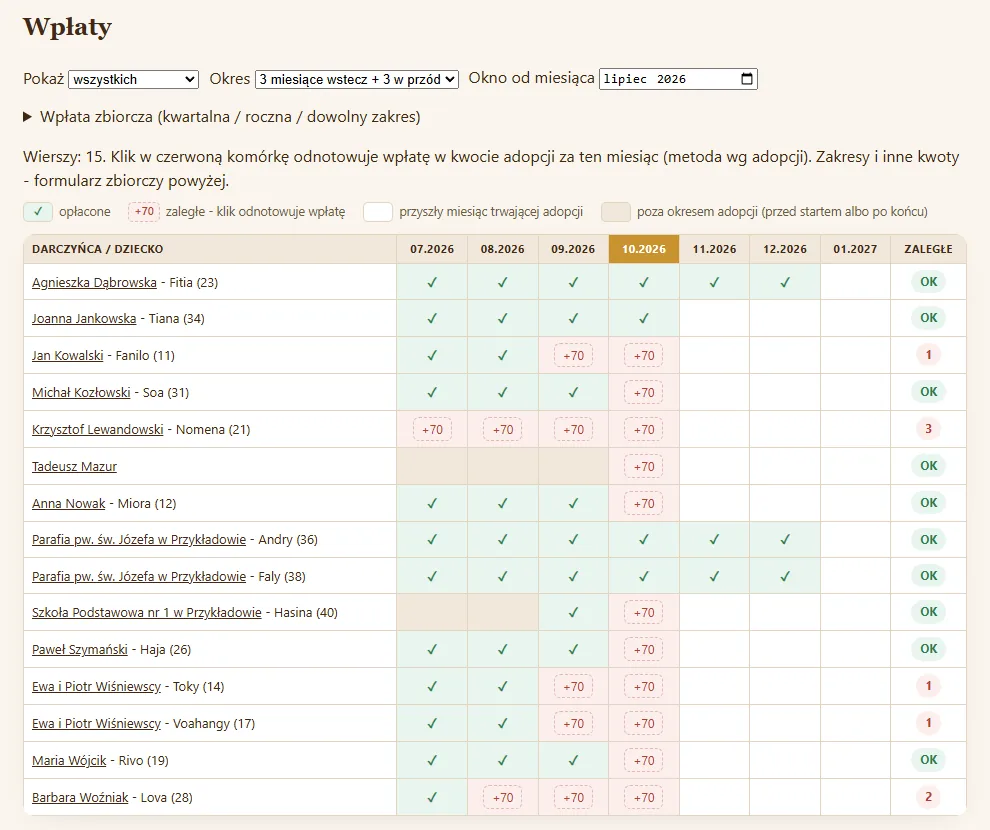
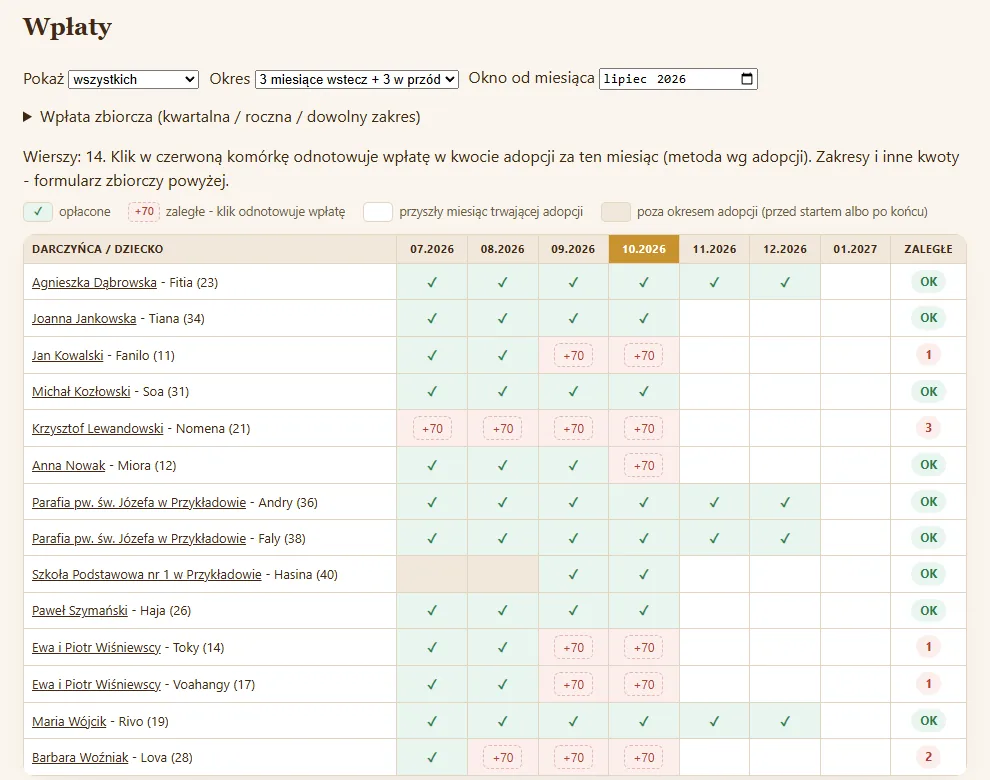
tresc: wpis MADA - geneza od wizytowki, zrzuty zgodne z tekstem
Punkt wyjscia wg Tomasza (tylko fanpage, potem kolejne moduly - kolejnosc
z historii commitow). Macierz, podzial przelewu i dubel zrobione od nowa
na poprawionych fikcyjnych danych, podpisy dopasowane do zrzutow.

diff --git a/content/wpisy/2026-10-03-strona-fundacji-misja-mada.md b/content/wpisy/2026-10-03-strona-fundacji-misja-mada.md
@@ -12,13 +12,21 @@ typ: wpis
 ---
 Fundacja Misja MADA pomaga dzieciom i rodzinom na Madagaskarze. Wspiera Siostry Małe Misjonarki Miłosierdzia (Siostry Orionistki), które prowadzą tam między innymi Centrum Edukacyjne i Atelier Nadziei. Najważniejszy program fundacji to Adopcja Serca: darczyńca z Polski co miesiąc wspiera konkretne dziecko.
 
-W czerwcu 2026 zacząłem robić dla fundacji nowy serwis, [misjamada.pl](https://misjamada.pl), razem z panelem, w którym prowadzi się dziś cały ten program. Koncepcję, zakres funkcji i projekt graficzny ustaliliśmy wspólnie z fundacją. Kod, wdrożenie i bieżące utrzymanie są po mojej stronie. Ten tekst opisuje, jak to wygląda od środka - dla kogoś, kto chce zobaczyć, jak pracuję.
+W czerwcu 2026 zrobiłem dla fundacji pierwszą stronę internetową, [misjamada.pl](https://misjamada.pl). Zaczęła się jako wizytówka, a z czasem urosła w system, w którym fundacja prowadzi dziś cały ten program. Koncepcję, zakres funkcji i projekt graficzny ustalaliśmy wspólnie z fundacją. Kod, wdrożenie i bieżące utrzymanie są po mojej stronie. Ten tekst opisuje, jak to wygląda od środka - dla kogoś, kto chce zobaczyć, jak pracuję.
 
-## Punkt wyjścia
+## Punkt wyjścia: fanpage i arkusze
 
-Adopcja Serca żyła w arkuszach Google. W jednym lista darczyńców, w drugim wpłaty, po kolumnie na każdy miesiąc. Każdy przelew z wyciągu ktoś przepisywał ręcznie: kto zapłacił, za które dziecko, za jaki okres. Arkusz jest świetny na początek, ale z każdym nowym darczyńcą robi się trudniejszy. Nie pokaże sam, kto zalega z wpłatami, nie wyśle maila i nie zauważy, że ta sama wpłata została wpisana dwa razy.
+Fundacja nie miała strony internetowej, tylko fanpage na Facebooku. Program Adopcji Serca prowadziła w arkuszach Google: w jednym lista darczyńców, w drugim wpłaty, po kolumnie na każdy miesiąc. Każdy przelew z wyciągu ktoś przepisywał ręcznie.
 
-Cel był więc podwójny: strona, przez którą łatwo wesprzeć fundację, i narzędzie, które zdejmie z ludzi w fundacji ręczne przepisywanie.
+Na początku chodziło o jedno: porządną wizytówkę, która przedstawi fundację, jej działania i misję na Madagaskarze. Od tego zaczęliśmy, a kolejne części dobudowywaliśmy wtedy, gdy okazywało się, że są potrzebne:
+
+- **czerwiec 2026** - wizytówka w trzech językach, formularze, wpłaty jednorazowe przez PayU i newsletter w MailerLite. Zaraz potem panel, w którym fundacja sama dodaje i poprawia wydarzenia oraz sprawozdania.
+- **czerwiec i lipiec** - wpłaty co miesiąc kartą.
+- **sierpień** - moduł Adopcja Serca: dzieci, darczyńcy, przypisywanie adopcji, wpłaty i maile do darczyńców. Zastąpił arkusze.
+- **sierpień i wrzesień** - finanse i import wyciągu z banku.
+- **od września** - poprawki według uwag z codziennej pracy fundacji.
+
+Arkusz jest świetny na początek, ale z każdym nowym darczyńcą robi się trudniejszy. Nie pokaże sam, kto zalega z wpłatami, nie wyśle maila i nie zauważy, że ta sama wpłata została wpisana dwa razy. Dlatego największa część pracy to dziś nie sama strona, tylko narzędzia do prowadzenia fundacji, które stoją za nią.
 
 ## Co powstało
 
@@ -41,7 +49,7 @@ Pracownicy fundacji sami publikują wydarzenia i sprawozdania. Nie muszą przy t
 
 <figure>
 <a href="/media/2026/10/mada-wydarzenia.webp"><img src="/media/2026/10/mada-wydarzenia.webp" alt="Lista wydarzeń w panelu: tytuł, data, status nadchodzące albo archiwum, gwiazdka przy wyróżnionym" width="990" height="360" loading="lazy"></a>
-<figcaption>Lista wydarzeń w panelu. Status liczy się z daty, więc nikt nie musi przenosić wydarzeń do archiwum.</figcaption>
+<figcaption>Lista wydarzeń w panelu. Gwiazdka oznacza wydarzenie wyróżnione na stronie głównej, a status nadchodzące albo archiwum liczy się z daty - stąd strona wie, co pokazać.</figcaption>
 </figure>
 
 Logowanie jest na imienne konta, z ochroną przed zgadywaniem haseł, a każda zmiana danych trafia do dziennika: kto, co i kiedy.
@@ -53,8 +61,8 @@ To największa część pracy i ta, z której fundacja korzysta codziennie. W pa
 Najważniejszy widok celowo wygląda jak dawny arkusz: wiersz na darczyńcę i dziecko, kolumna na miesiąc. Ludzie w fundacji znali ten układ na pamięć, więc nie było sensu wymyślać go od nowa. Różnica jest taka, że kolory liczą się same, a kliknięcie w czerwone pole zapisuje wpłatę.
 
 <figure>
-<a href="/media/2026/10/mada-macierz-wplat.webp"><img src="/media/2026/10/mada-macierz-wplat.webp" alt="Macierz wpłat w panelu: wiersze z darczyńcami i dziećmi, kolumny z miesiącami, zielone pola opłacone, czerwone z kwotą 70 zł zaległe" width="990" height="830" loading="lazy"></a>
-<figcaption>Macierz wpłat. Zielone opłacone, czerwone zaległe, beżowe poza okresem adopcji. Wszystkie osoby, dzieci i kwoty na zrzutach są zmyślone.</figcaption>
+<a href="/media/2026/10/mada-macierz-wplat.webp"><img src="/media/2026/10/mada-macierz-wplat.webp" alt="Macierz wpłat w panelu: wiersze z darczyńcami i dziećmi, kolumny z miesiącami, zielone pola opłacone, czerwone z kwotą 70 zł zaległe" width="990" height="780" loading="lazy"></a>
+<figcaption>Macierz wpłat. Zielone opłacone, czerwone nieopłacone, beżowe poza okresem adopcji. Kolumna „Zaległe” nie liczy bieżącego miesiąca, bo na jego wpłatę jest jeszcze czas. Wszystkie osoby, dzieci i kwoty na zrzutach są zmyślone.</figcaption>
 </figure>
 
 Karta darczyńcy zbiera wszystko w jednym miejscu: kontakt, notatki fundacji, adopcje, historię wpłat. Stąd też jednym kliknięciem wysyła się darczyńcy maila z przedstawieniem dziecka, a panel zapamiętuje, komu i kiedy to poszło.
@@ -83,14 +91,14 @@ Ta metryka okazała się najcenniejsza. Plik, którego nie da się odczytać, to
 Potem trzeba przypisać każdy przelew do właściwej osoby i dziecka. Panel szuka po zapamiętanym numerze rachunku, po numerze i imieniu dziecka w tytule, a na końcu po nazwisku - i w nadawcy, i w tytule, także w przybliżeniu. To ważne, bo w kartotece często jest para („Ewa i Piotr Wiśniewscy”), a przelew przychodzi od „EWA WIŚNIEWSKA”. Okres wpłaty bierze z tytułu, jeśli darczyńca go wpisał, a jeśli nie - z kwoty, licząc od pierwszego nieopłaconego miesiąca. Jedna wpłata za dwoje dzieci dzieli się na dwie.
 
 <figure>
-<a href="/media/2026/10/mada-import-podzial.webp"><img src="/media/2026/10/mada-import-podzial.webp" alt="Operacja z wyciągu w panelu: przelew 280 zł z tytułem o dwóch miesiącach, rozdzielony na dwie adopcje po 140 zł, pod każdą pasek opłaconych miesięcy" width="944" height="905" loading="lazy"></a>
-<figcaption>Jeden przelew za dwoje dzieci i dwa miesiące. Pod każdą adopcją pasek miesięcy: zielone opłacone, czerwone zaległe, w ramce te, za które płaci ta wpłata.</figcaption>
+<a href="/media/2026/10/mada-import-podzial.webp"><img src="/media/2026/10/mada-import-podzial.webp" alt="Operacja z wyciągu w panelu: przelew 280 zł od darczyńcy z dwojgiem dzieci, rozdzielony na dwie adopcje po 140 zł za wrzesień i październik, pod każdą pasek opłaconych miesięcy" width="945" height="855" loading="lazy"></a>
+<figcaption>Jeden przelew za dwoje dzieci. Tytuł nie mówi, za jakie miesiące, więc panel dzieli kwotę po równo i liczy okres od pierwszego nieopłaconego miesiąca. Pod każdą adopcją pasek: zielone opłacone, czerwone zaległe, w ramce miesiące tej wpłaty.</figcaption>
 </figure>
 
 Panel tylko podpowiada. Nic nie zapisuje się samo - pracownik widzi propozycję, pasek miesięcy pod spodem i klika. Najbardziej przydatne okazało się ostrzeżenie o możliwym dublu: gdy ktoś wcześniej wpisał wpłatę ręcznie, a potem przychodzi wyciąg z tym samym przelewem, panel mówi, która to wpłata, kto i kiedy ją wpisał, i zostawia wiersz niezaznaczony.
 
 <figure>
-<a href="/media/2026/10/mada-import-dubel.webp"><img src="/media/2026/10/mada-import-dubel.webp" alt="Operacja z wyciągu z czerwonym ostrzeżeniem: miesiąc przelewu jest już opłacony wpłatą wpisaną ręcznie, z datą wpisu i loginem osoby, która ją wpisała" width="944" height="880" loading="lazy"></a>
+<a href="/media/2026/10/mada-import-dubel.webp"><img src="/media/2026/10/mada-import-dubel.webp" alt="Operacja z wyciągu z czerwonym ostrzeżeniem: miesiąc przelewu jest już opłacony wpłatą wpisaną ręcznie, z datą wpisu i loginem osoby, która ją wpisała" width="944" height="879" loading="lazy"></a>
 <figcaption>Ostrzeżenie o możliwym dublu. Zapis wymaga świadomej decyzji.</figcaption>
 </figure>
 
